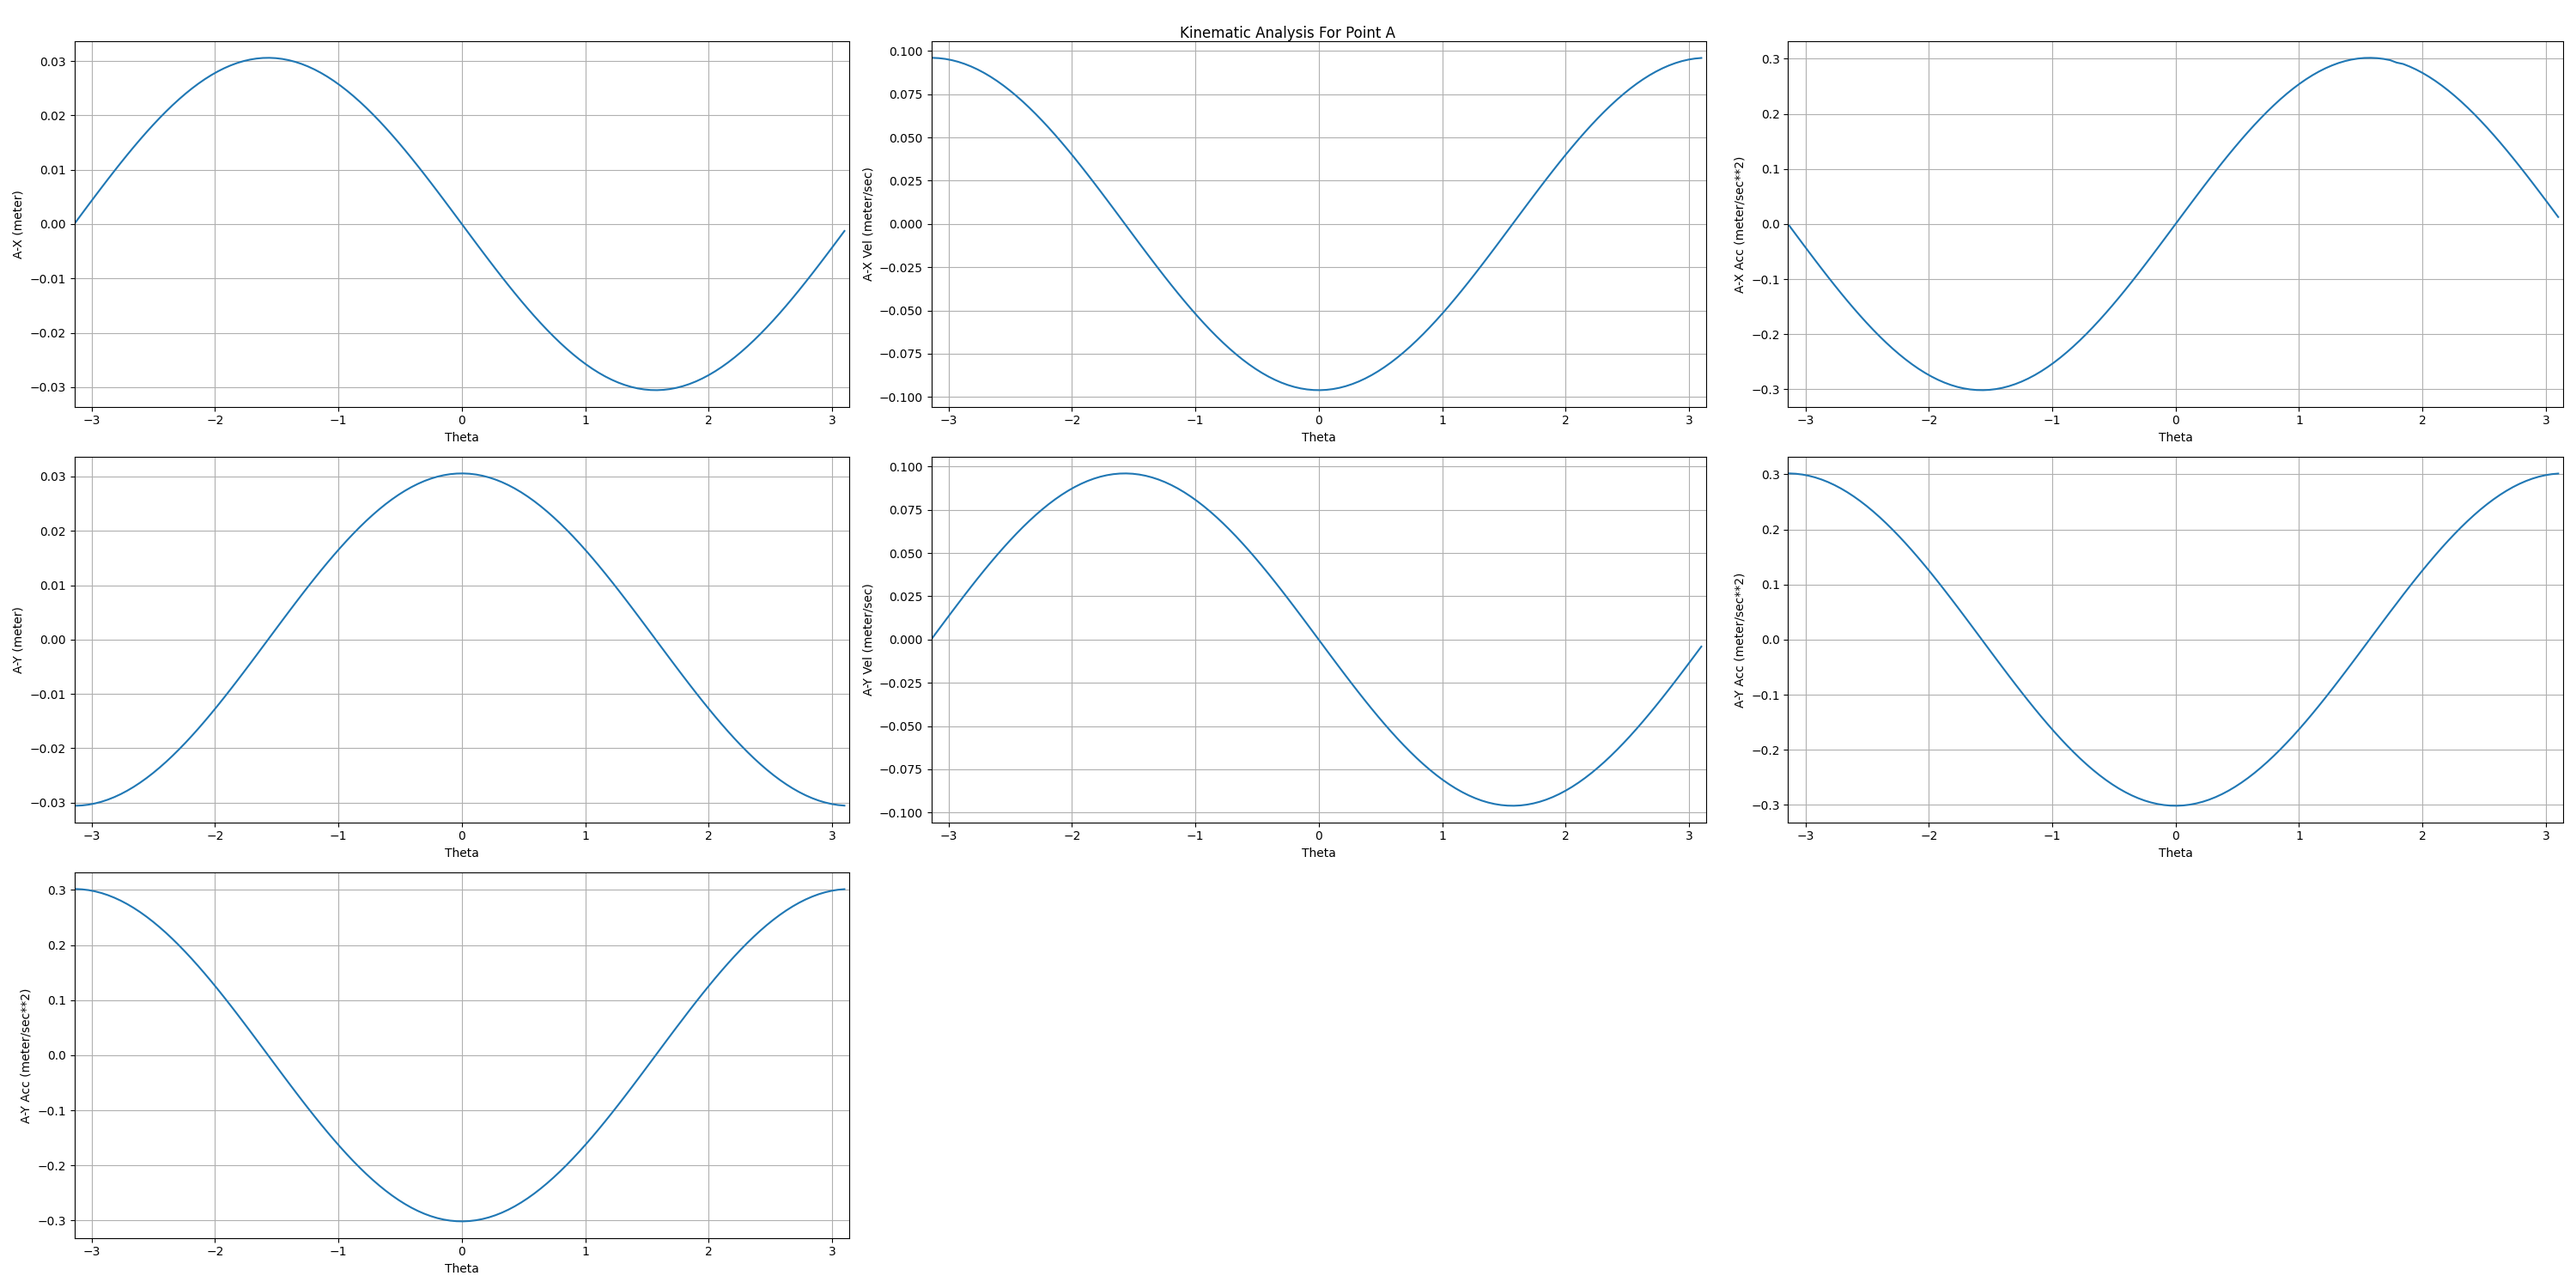
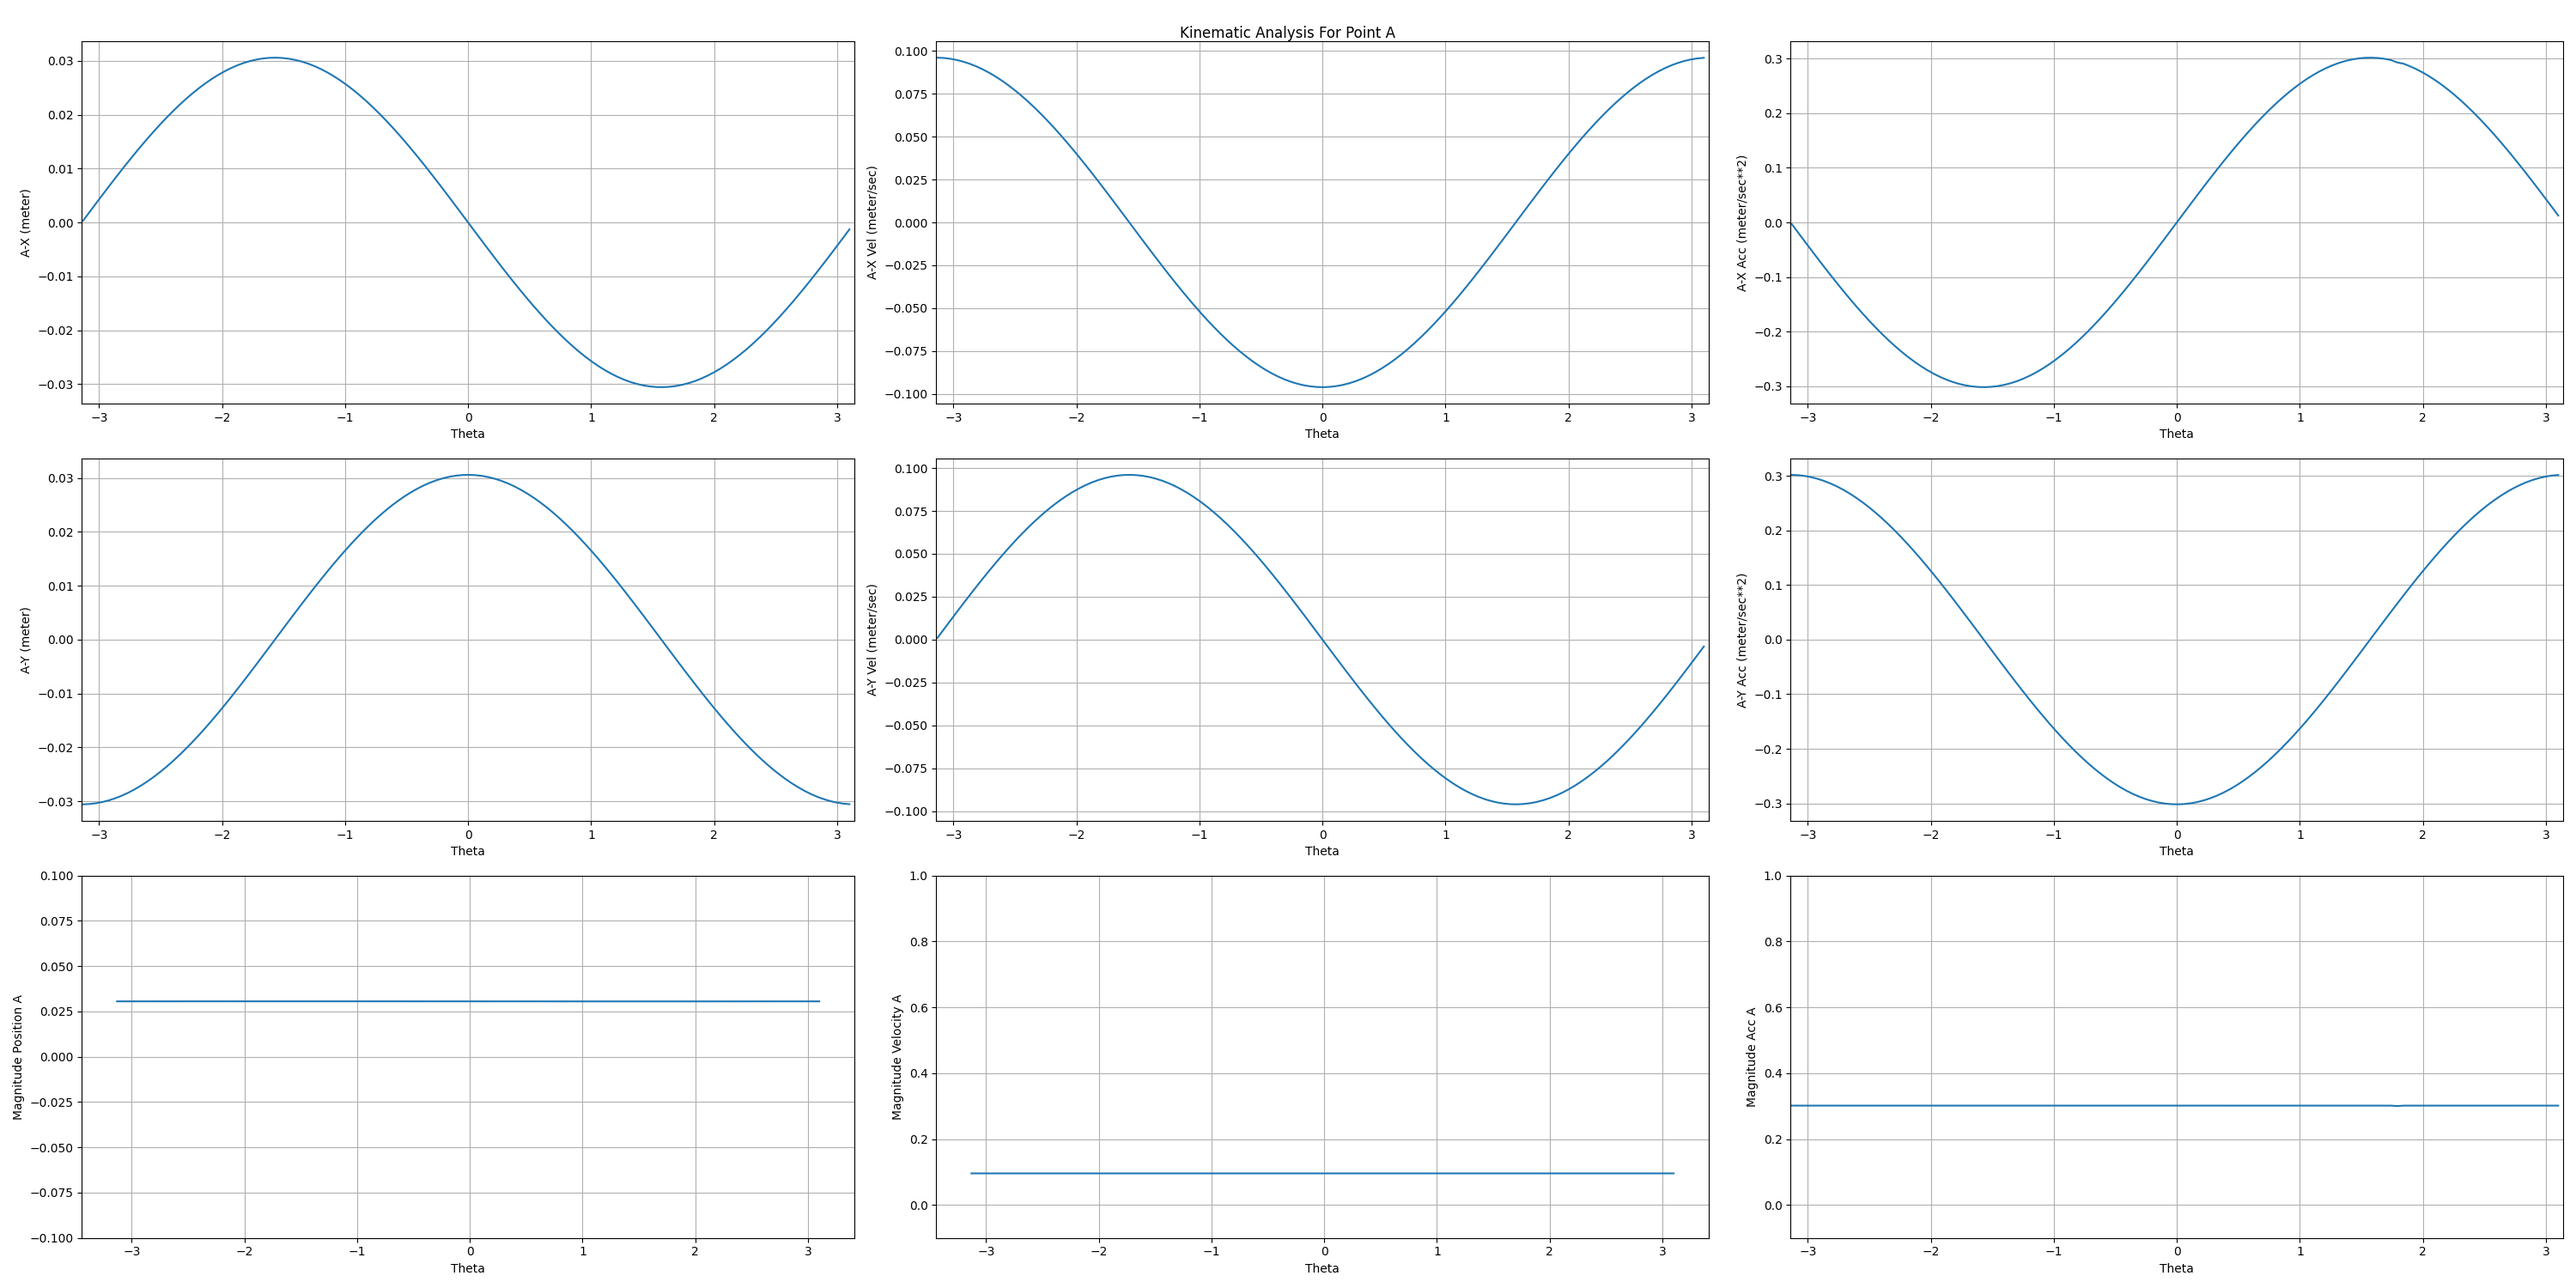
update

diff --git a/PycharmProjects/ml/ai.py b/PycharmProjects/ml/ai.py
@@ -1,3 +1,4 @@
+import math
 import pandas as pd
 import matplotlib.pyplot as plt
 import numpy as np
@@ -6,6 +7,7 @@ dataframe = pd.read_csv("data.csv")
 
 # set for checking duplicates
 theSet = set([])
+
 # removing duplicates
 for x in dataframe["Theta"]:
     if theSet.__contains__(x):
@@ -15,6 +17,82 @@ for x in dataframe["Theta"]:
         theSet.add(x)
 
 df = dataframe.sort_values(by='Theta')
+
+mag_pos_a = []
+mag_vel_a = []
+mag_acc_a = []
+
+mag_pos_b = []
+mag_vel_b = []
+mag_acc_b = []
+
+mag_pos_c = []
+mag_vel_c = []
+mag_acc_c = []
+
+mag_pos_d = []
+mag_vel_d = []
+mag_acc_d = []
+
+mag_pos_d0 = []
+mag_vel_d0 = []
+mag_acc_d0 = []
+
+for x, y in zip(df["A-X (meter)"], df["A-Y (meter)"]):
+    mag_pos_a.append(math.sqrt((x*x)+(y*y)))
+for x, y in zip(df["A-X Vel (meter/sec)"], df["A-Y Vel (meter/sec)"]):
+    mag_vel_a.append(math.sqrt((x*x)+(y*y)))
+for x, y in zip(df["A-X Acc (meter/sec**2)"], df["A-Y Acc (meter/sec**2)"]):
+    mag_acc_a.append(math.sqrt((x*x)+(y*y)))
+
+for x, y in zip(df["B-X (meter)"], df["B-Y (meter)"]):
+    mag_pos_b.append(math.sqrt((x*x)+(y*y)))
+for x, y in zip(df["B-X Vel (meter/sec)"], df["B-Y Vel (meter/sec)"]):
+    mag_vel_b.append(math.sqrt((x*x)+(y*y)))
+for x, y in zip(df["B-X Acc (meter/sec**2)"], df["B-Y Acc (meter/sec**2)"]):
+    mag_acc_b.append(math.sqrt((x*x)+(y*y)))
+
+for x, y in zip(df["C-X (meter)"], df["C-Y (meter)"]):
+    mag_pos_c.append(math.sqrt((x*x)+(y*y)))
+for x, y in zip(df["C-X Vel (meter/sec)"], df["C-Y Vel (meter/sec)"]):
+    mag_vel_c.append(math.sqrt((x*x)+(y*y)))
+for x, y in zip(df["C-X Acc (meter/sec**2)"], df["C-Y Acc (meter/sec**2)"]):
+    mag_acc_c.append(math.sqrt((x*x)+(y*y)))
+
+for x, y in zip(df["D-X (meter)"], df["D-Y (meter)"]):
+    mag_pos_d.append(math.sqrt((x*x)+(y*y)))
+for x, y in zip(df["D-X Vel (meter/sec)"], df["D-Y Vel (meter/sec)"]):
+    mag_vel_d.append(math.sqrt((x*x)+(y*y)))
+for x, y in zip(df["D-X Acc (meter/sec**2)"], df["D-Y Acc (meter/sec**2)"]):
+    mag_acc_d.append(math.sqrt((x*x)+(y*y)))
+
+for x, y in zip(df["D0-X (meter)"], df["D0-Y (meter)"]):
+    mag_pos_d0.append(math.sqrt((x*x)+(y*y)))
+for x, y in zip(df["D0-X Vel (meter/sec)"], df["D0-Y Vel (meter/sec)"]):
+    mag_vel_d0.append(math.sqrt((x*x)+(y*y)))
+for x, y in zip(df["D0-X Acc (meter/sec**2)"], df["D0-Y Acc (meter/sec**2)"]):
+    mag_acc_d0.append(math.sqrt((x*x)+(y*y)))
+
+df["Magnitude Position A"] = mag_pos_a
+df["Magnitude Velocity A"] = mag_vel_a
+df["Magnitude Acc A"] = mag_acc_a
+
+df["Magnitude Position B"] = mag_pos_b
+df["Magnitude Velocity B"] = mag_vel_b
+df["Magnitude Acc B"] = mag_acc_b
+
+df["Magnitude Position C"] = mag_pos_c
+df["Magnitude Velocity C"] = mag_vel_c
+df["Magnitude Acc C"] = mag_acc_c
+
+df["Magnitude Position D"] = mag_pos_d
+df["Magnitude Velocity D"] = mag_vel_d
+df["Magnitude Acc D"] = mag_acc_d
+
+df["Magnitude Position D0"] = mag_pos_d0
+df["Magnitude Velocity D0"] = mag_vel_d0
+df["Magnitude Acc D0"] = mag_acc_d0
+
 f1 = plt.figure(figsize=(30, 15))
 
 ax1 = f1.add_subplot(3, 3, 1)
@@ -59,16 +137,104 @@ ax6.set_xlabel('Theta')
 ax6.grid(True)
 ax6.set_xlim([-3.14, 3.14])
 
-"""ax7 = f1.add_subplot(3, 3, 7)
-ax7.plot(df["Theta"], df["A-Y Acc (meter/sec**2)"])
-ax7.set_ylabel('A-Y Acc (meter/sec**2)')
+ax7 = f1.add_subplot(3, 3, 7)
+ax7.plot(df["Theta"], df["Magnitude Position A"])
+ax7.set_ylabel('Magnitude Position A')
 ax7.set_xlabel('Theta')
 ax7.grid(True)
-ax7.set_xlim([-3.14, 3.14])"""
+ax7.set_ylim([-0.1, 0.1])
+
+ax8 = f1.add_subplot(3, 3, 8)
+ax8.plot(df["Theta"], df["Magnitude Velocity A"])
+ax8.set_ylabel('Magnitude Velocity A')
+ax8.set_xlabel('Theta')
+ax8.grid(True)
+ax8.set_ylim([-0.1, 1.0])
+
+ax9 = f1.add_subplot(3, 3, 9)
+ax9.plot(df["Theta"], df["Magnitude Acc A"])
+ax9.set_ylabel('Magnitude Acc A')
+ax9.set_xlabel('Theta')
+ax9.grid(True)
+ax9.set_ylim([-0.1, 1.0])
 
 plt.suptitle('Kinematic Analysis For Point A')
 plt.grid(True)
 x1, x2, y1, y2 = plt.axis()
 plt.axis((-3.14, 3.14, y1, y2))
+plt.savefig('outputA.png')
+
+
+####################################################
+f2 = plt.figure(figsize=(30, 15))
+
+ax1b = f2.add_subplot(3, 3, 1)
+ax1b.plot(df["Theta"], df["B-X (meter)"])
+ax1b.set_ylabel('B-X (meter)')
+ax1b.set_xlabel('Theta')
+ax1b.grid(True)
+ax1b.set_xlim([-3.14, 3.14])
+
+ax2b = f2.add_subplot(3, 3, 4)
+ax2b.plot(df["Theta"], df["B-Y (meter)"])
+ax2b.set_ylabel('B-Y (meter)')
+ax2b.set_xlabel('Theta')
+ax2b.grid(True)
+ax2b.set_xlim([-3.14, 3.14])
+
+ax3b = f2.add_subplot(3, 3, 2)
+ax3b.plot(df["Theta"], df["B-X Vel (meter/sec)"])
+ax3b.set_ylabel('B-X Vel (meter/sec)')
+ax3b.set_xlabel('Theta')
+ax3b.grid(True)
+ax3b.set_xlim([-3.14, 3.14])
+
+ax4b = f2.add_subplot(3, 3, 3)
+ax4b.plot(df["Theta"], df["B-X Acc (meter/sec**2)"])
+ax4b.set_ylabel('B-X Acc (meter/sec**2)')
+ax4b.set_xlabel('Theta')
+ax4b.grid(True)
+ax4b.set_xlim([-3.14, 3.14])
+
+ax5b = f2.add_subplot(3, 3, 5)
+ax5b.plot(df["Theta"], df["B-Y Vel (meter/sec)"])
+ax5b.set_ylabel('B-Y Vel (meter/sec)')
+ax5b.set_xlabel('Theta')
+ax5b.grid(True)
+ax5b.set_xlim([-3.14, 3.14])
+
+ax6b = f2.add_subplot(3, 3, 6)
+ax6b.plot(df["Theta"], df["B-Y Acc (meter/sec**2)"])
+ax6b.set_ylabel('B-Y Acc (meter/sec**2)')
+ax6b.set_xlabel('Theta')
+ax6b.grid(True)
+ax6b.set_xlim([-3.14, 3.14])
+
+ax7b = f2.add_subplot(3, 3, 7)
+ax7b.plot(df["Theta"], df["Magnitude Position B"])
+ax7b.set_ylabel('Magnitude Position B')
+ax7b.set_xlabel('Theta')
+ax7b.grid(True)
+ax7b.set_ylim([0.06, 0.13])
+
+ax8b = f2.add_subplot(3, 3, 8)
+ax8b.plot(df["Theta"], df["Magnitude Velocity B"])
+ax8b.set_ylabel('Magnitude Velocity B')
+ax8b.set_xlabel('Theta')
+ax8b.grid(True)
+ax8b.set_ylim([0.0, 0.12])
+
+ax9b = f2.add_subplot(3, 3, 9)
+ax9b.plot(df["Theta"], df["Magnitude Acc B"])
+ax9b.set_ylabel('Magnitude Acc B')
+ax9b.set_xlabel('Theta')
+ax9b.grid(True)
+ax9b.set_ylim([0.0, 0.6])
+
+plt.suptitle('Kinematic Analysis For Point B')
+plt.grid(True)
+x1, x2, y1, y2 = plt.axis()
+plt.axis((-3.14, 3.14, y1, y2))
+plt.savefig('outputB.png')
 plt.show()
 
